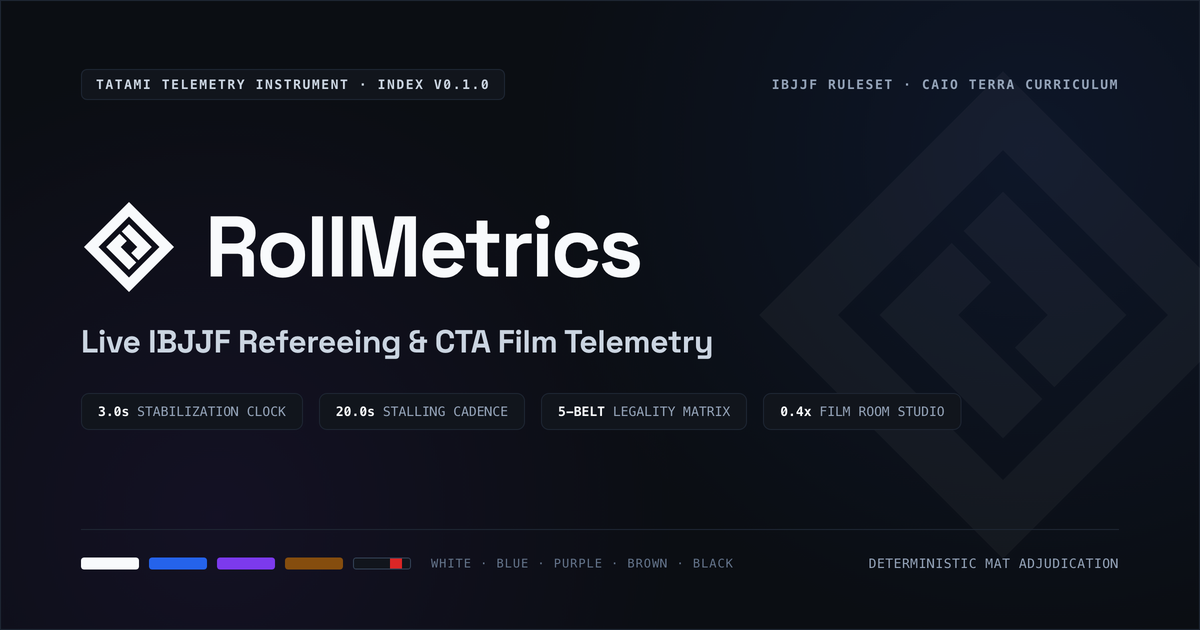
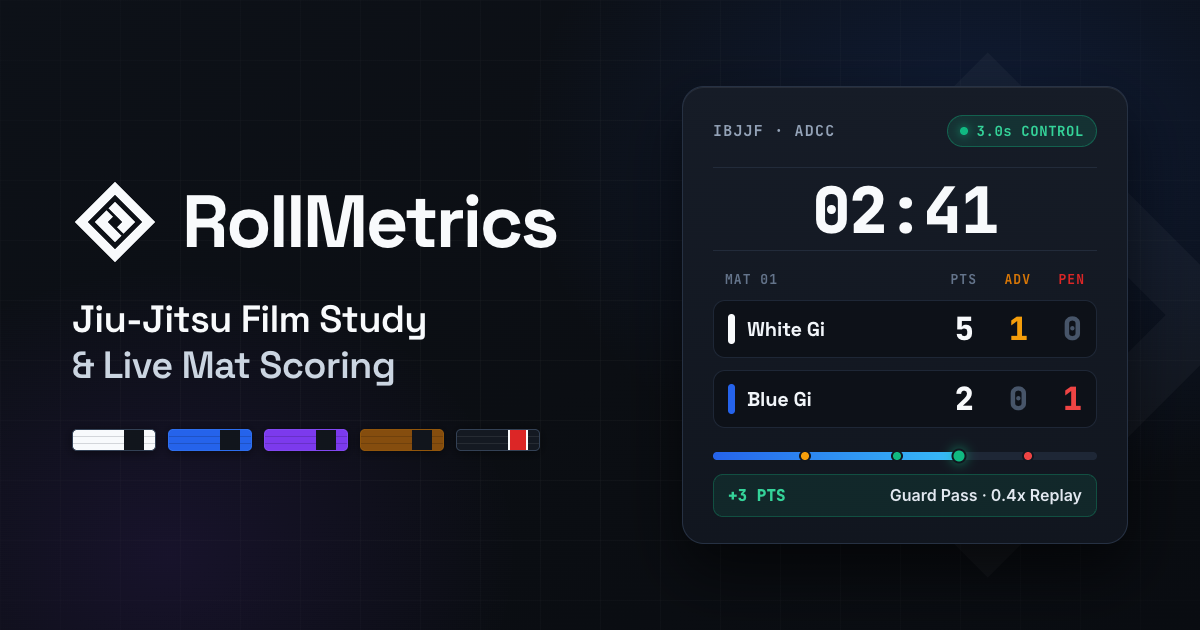
Improve social OG thumbnail, Twitter card, and oEmbed metadata

diff --git a/frontend/index.html b/frontend/index.html
@@ -4,9 +4,41 @@
     <meta charset="UTF-8" />
     <link rel="icon" type="image/svg+xml" href="/favicon.svg?v=kamon3" />
     <meta name="viewport" content="width=device-width, initial-scale=1.0, viewport-fit=cover" />
+    <link rel="canonical" href="https://rollmetrics.ca/" />
+    <link
+      rel="alternate"
+      type="application/json+oembed"
+      href="https://rollmetrics.ca/oembed.json"
+      title="RollMetrics"
+    />
+    <meta
+      name="description"
+      content="Brazilian Jiu-Jitsu film study, live IBJJF and ADCC scoring, slow-motion clips, and private academy curriculum."
+    />
+    <meta name="theme-color" content="#0B0E13" />
+    <meta property="og:type" content="website" />
+    <meta property="og:url" content="https://rollmetrics.ca/" />
+    <meta property="og:site_name" content="RollMetrics" />
     <meta property="og:title" content="RollMetrics" />
-    <meta property="og:description" content="Live IBJJF Refereeing and Caio Terra Film Telemetry" />
-    <meta property="og:image" content="/og-card.png" />
+    <meta
+      property="og:description"
+      content="Jiu-Jitsu film study, live IBJJF and ADCC scoring, slow-motion clips, and private academy curriculum."
+    />
+    <meta property="og:image" content="https://rollmetrics.ca/og-card.png?v=2" />
+    <meta property="og:image:secure_url" content="https://rollmetrics.ca/og-card.png?v=2" />
+    <meta property="og:image:type" content="image/png" />
+    <meta property="og:image:width" content="1200" />
+    <meta property="og:image:height" content="630" />
+    <meta property="og:image:alt" content="RollMetrics: Jiu-Jitsu Film Study and Live Mat Scoring" />
+    <meta name="twitter:card" content="summary_large_image" />
+    <meta name="twitter:url" content="https://rollmetrics.ca/" />
+    <meta name="twitter:title" content="RollMetrics" />
+    <meta
+      name="twitter:description"
+      content="Jiu-Jitsu film study, live IBJJF and ADCC scoring, slow-motion clips, and private academy curriculum."
+    />
+    <meta name="twitter:image" content="https://rollmetrics.ca/og-card.png?v=2" />
+    <meta name="twitter:image:alt" content="RollMetrics: Jiu-Jitsu Film Study and Live Mat Scoring" />
     <link rel="preconnect" href="https://fonts.googleapis.com" />
     <link rel="preconnect" href="https://fonts.gstatic.com" crossorigin />
     <link
